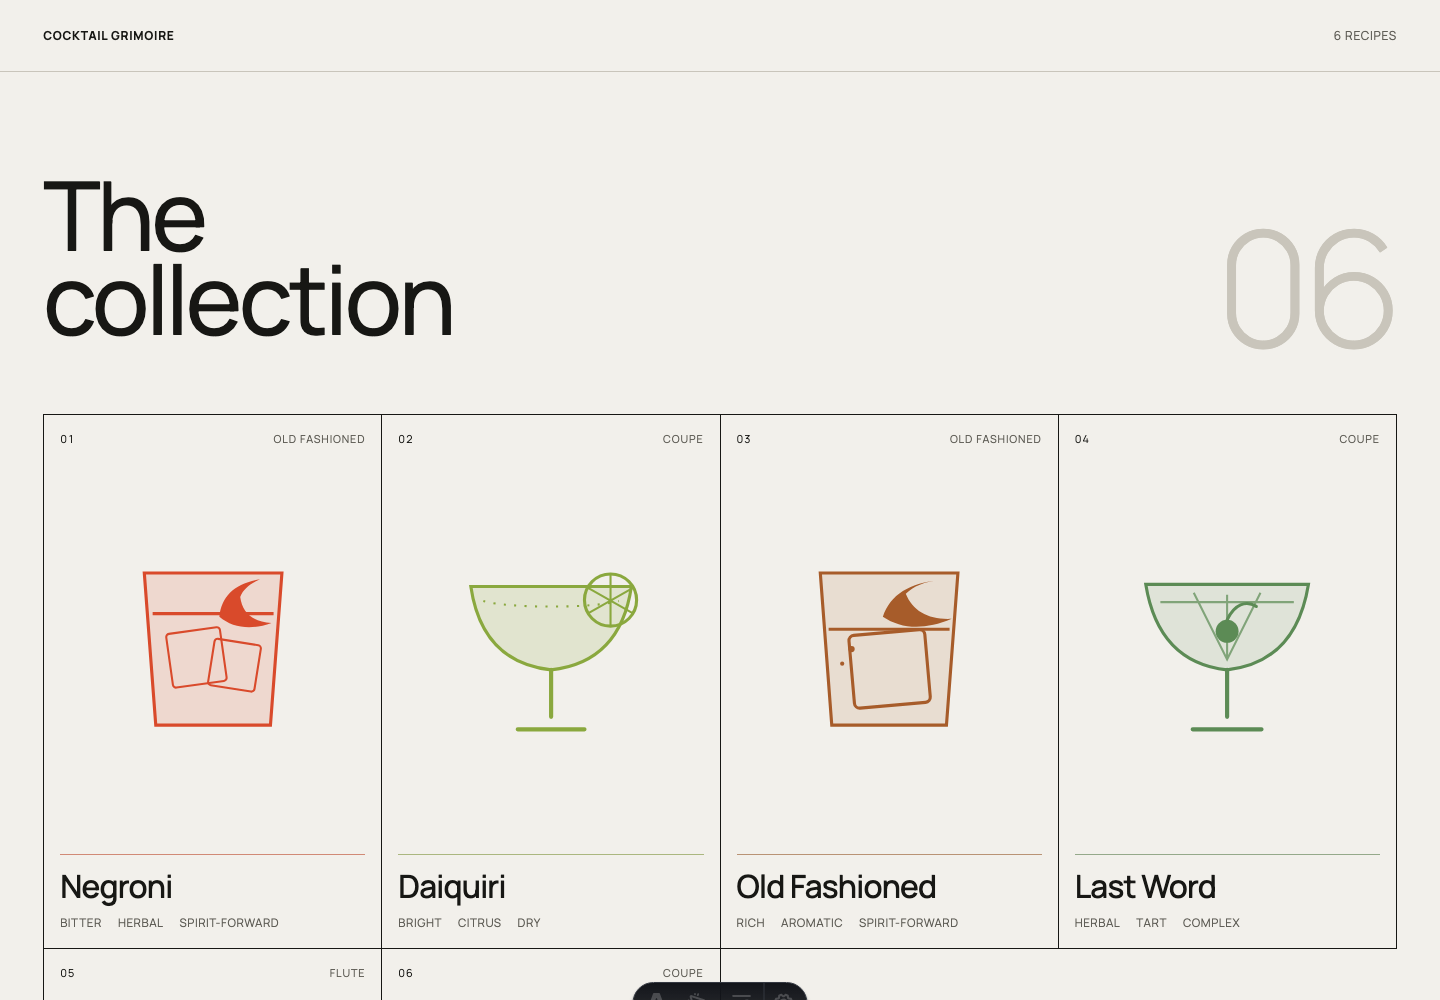
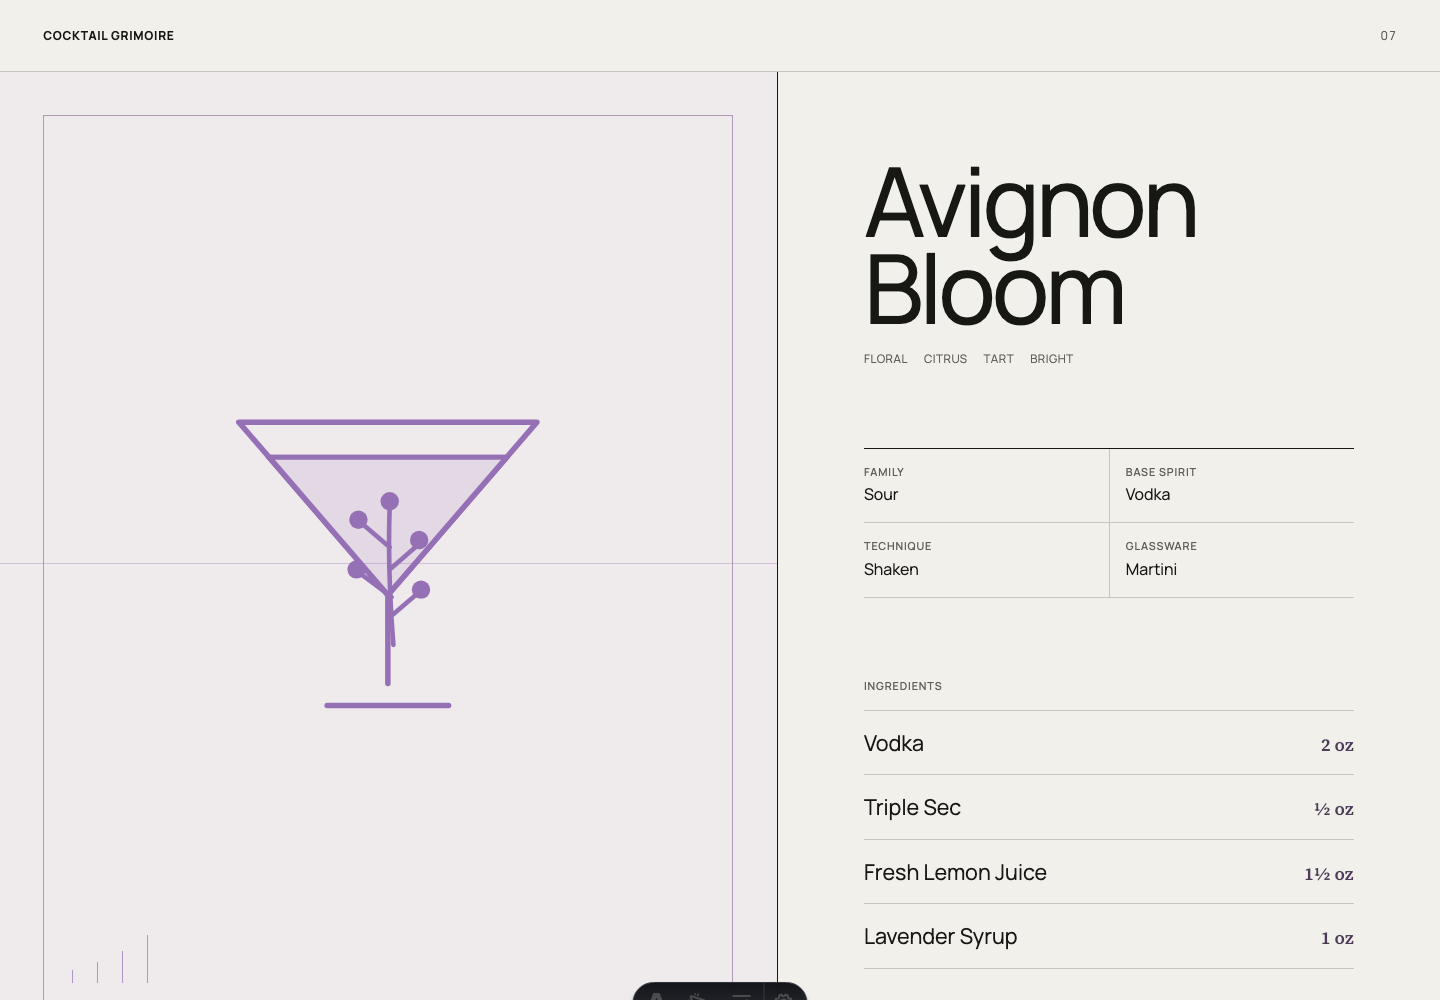
feat: add cocktails

diff --git a/src/lib/cocktails.ts b/src/lib/cocktails.ts
@@ -20,10 +20,12 @@ export const PROFILES = [
   'creamy',
   'crisp',
   'dry',
+  'floral',
   'fruity',
   'herbal',
   'modern',
   'rich',
+  'smoky',
   'sparkling',
   'spicy',
   'spirit-forward',
@@ -31,7 +33,15 @@ export const PROFILES = [
   'tropical',
 ] as const;
 
-export const BASE_SPIRITS = ['Bourbon', 'Gin', 'Rum', 'Tequila', 'White rum'] as const;
+export const BASE_SPIRITS = [
+  'Bourbon',
+  'Gin',
+  'Mezcal',
+  'Rum',
+  'Tequila',
+  'Vodka',
+  'White rum',
+] as const;
 
 export const ICE_STYLES = ['none', 'cubes', 'large-cube', 'crushed'] as const;
 export const GARNISH_STYLES = [
@@ -41,7 +51,14 @@ export const GARNISH_STYLES = [
   'citrus-twist',
 ] as const;
 export const VISUAL_EFFECTS = ['creamy', 'smoky', 'sparkling', 'spicy'] as const;
-export const SIGNATURES = ['last-word', 'london-smash', 'paper-plane', 'tulum-sunset'] as const;
+export const SIGNATURES = [
+  'avignon-bloom',
+  'last-word',
+  'london-smash',
+  'ombre-nomade',
+  'paper-plane',
+  'tulum-sunset',
+] as const;
 
 export type Profile = (typeof PROFILES)[number];
 export type IceStyle = (typeof ICE_STYLES)[number];
@@ -51,6 +68,7 @@ export type Signature = (typeof SIGNATURES)[number];
 
 const PROFILE_EFFECTS: Partial<Record<Profile, VisualEffect>> = {
   creamy: 'creamy',
+  smoky: 'smoky',
   sparkling: 'sparkling',
   spicy: 'spicy',
 };

diff --git a/src/lib/formatAmount.ts b/src/lib/formatAmount.ts
@@ -1,14 +1,14 @@
 const commonFractions = [
-  { value: 1 / 8, label: '1/8' },
-  { value: 1 / 6, label: '1/6' },
-  { value: 1 / 4, label: '1/4' },
-  { value: 1 / 3, label: '1/3' },
-  { value: 3 / 8, label: '3/8' },
-  { value: 1 / 2, label: '1/2' },
-  { value: 5 / 8, label: '5/8' },
-  { value: 2 / 3, label: '2/3' },
-  { value: 3 / 4, label: '3/4' },
-  { value: 7 / 8, label: '7/8' },
+  { value: 1 / 8, label: '⅛' },
+  { value: 1 / 6, label: '⅙' },
+  { value: 1 / 4, label: '¼' },
+  { value: 1 / 3, label: '⅓' },
+  { value: 3 / 8, label: '⅜' },
+  { value: 1 / 2, label: '½' },
+  { value: 5 / 8, label: '⅝' },
+  { value: 2 / 3, label: '⅔' },
+  { value: 3 / 4, label: '¾' },
+  { value: 7 / 8, label: '⅞' },
 ];
 
 export function formatAmount(amount: number) {
@@ -19,5 +19,5 @@ export function formatAmount(amount: number) {
   if (!fraction) return String(amount);
   if (whole === 0) return fraction.label;
 
-  return `${whole} ${fraction.label}`;
+  return `${whole}${fraction.label}`;
 }

diff --git a/src/content.config.ts b/src/content.config.ts
@@ -14,6 +14,7 @@ import {
 
 const COCKTAIL_NAMES = [
   'Amalfarita',
+  'Avignon Bloom',
   'Daiquiri',
   'French 75',
   'Honolulu High Tide',
@@ -21,6 +22,7 @@ const COCKTAIL_NAMES = [
   'London Smash',
   'Negroni',
   'Old Fashioned',
+  'Ombre Nomade',
   'Oaxaca Glow',
   'Paper Plane',
   'Tulum Sunset',
